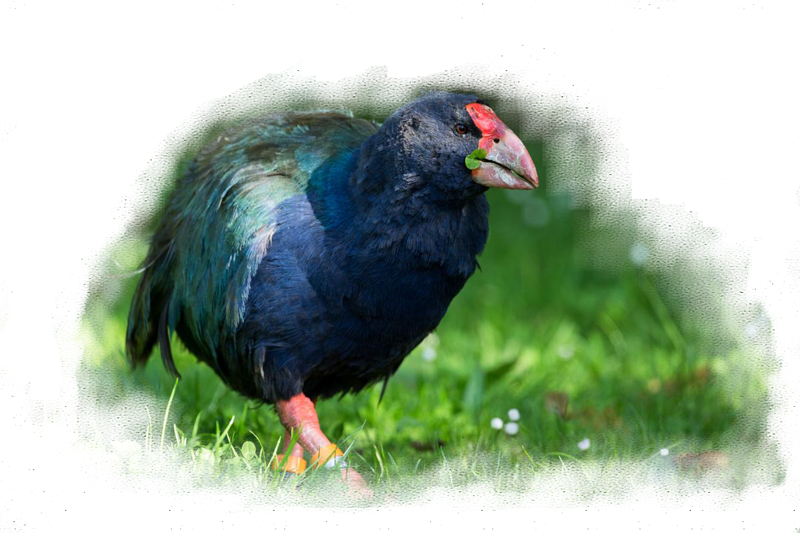
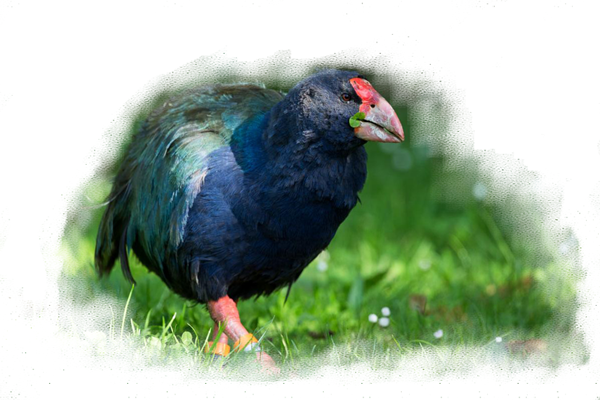
Additions

diff --git a/style.css b/style.css
@@ -158,6 +158,9 @@ h1	{
 	z-index: 0;
 	top:1000px;
 	right: -50px;
+	opacity: 0;
+	transform: translate(50px);
+	transition: all 0.3s ease-in-out;
 }
 
 .img2	{
@@ -166,16 +169,17 @@ h1	{
 	z-index: 0;
 	top:1750px;
 	left: -50px;
+	opacity: 1;
 }
 
 
 .text_box	{
 	display: inline-block;
 	background: rgba(28,31,45,.85);
-	
 	width: 500px;
 	position: absolute;
 	z-index: 4;
+	
 	
 }
 
@@ -183,12 +187,16 @@ h1	{
 .intro	{
 	top:650px;
 	left: 50px;
+	opacity: 0;
+	transform: translate(-40px);
+	transition: all 0.3s ease-in-out;
 }
 
 
 .bird	{
 	top:1550px;
 	right: 50px;
+	opacity: 1;
 }
 
 
@@ -238,4 +246,16 @@ blockquote	{
 	top: 2400px;
 	line-height: 1.75em;
 	left: 50px;
+}
+
+
+.is-showing	{
+	opacity: 1;
+	transform: translateX(0px);
+}
+
+
+.is-showing	{
+	opacity: 1;
+	transform: translateX(0px);
 }

diff --git a/index.html b/index.html
@@ -128,12 +128,16 @@ To the rediscoverer, Dr. G. B. Orbell, a physician of Invercargill, New Zealand,
 	<div class="ng">
 	
 	</div>
-	<img class="img1" src="images/nz2.png">
+	<img class="img1" src="images/nz.png">
 	
 	<div class="ng2">
 		
 	
 	</div>
+	
+	</section>
+	
+	<section class="content2">
 	
 	<img class="img2" src="images/takahe.png">
 	

diff --git a/functions.js b/functions.js
@@ -27,11 +27,14 @@ $(window).scroll(function(){
 	});
 	
 	
-	
-	
-	
-
-	
+	if(wScroll > $('.content').offset().top)	{
+		
+		$('.intro, .img1').each(function(){
+			
+			$('.intro, .img1').addClass('is-showing');
+			
+		});
+	}
 	
 	
 	
